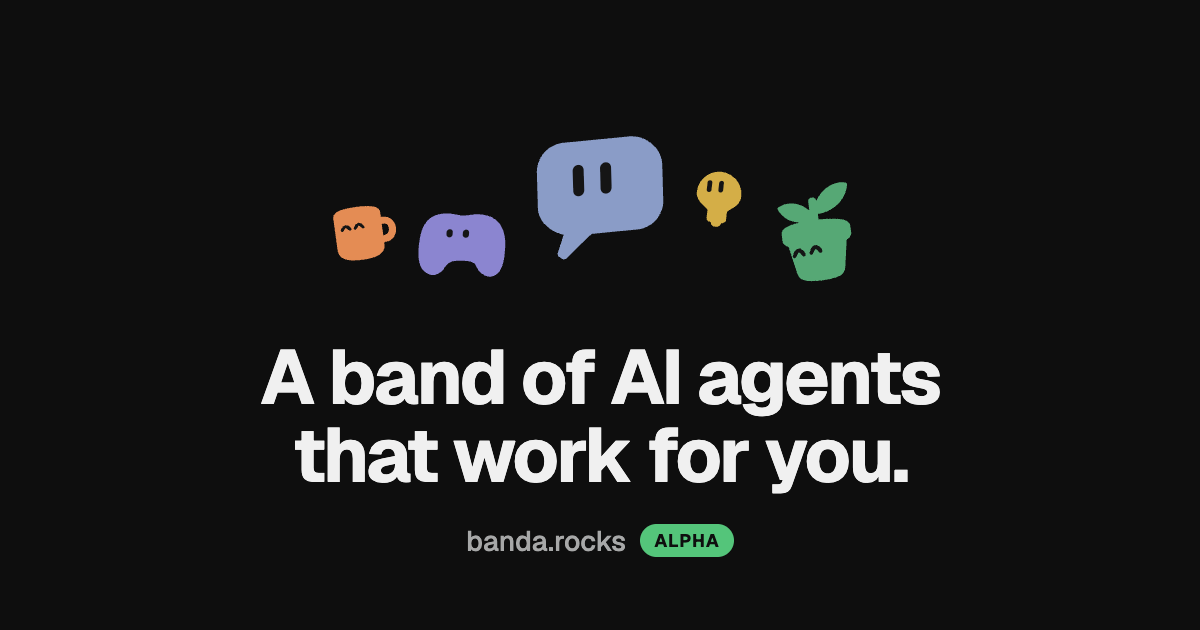
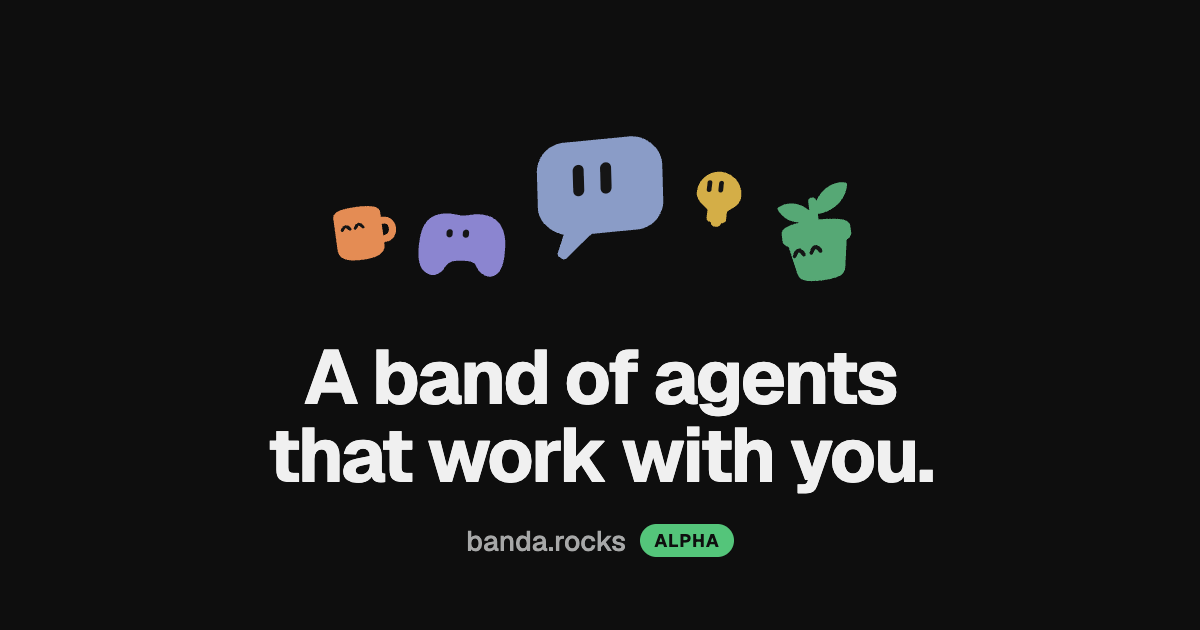
docs: the tagline is "A band of agents that work with you"
"Work for you" framed the agents as servants; the band works alongside
its owner. The new line replaces it in the README, the site's title,
headline and search and social metadata, the share picture (re-rendered
with npm run site:og), package.json's description and DESIGN.md's opening
sentence. "AI" is dropped from the line.

"Act on your behalf" in SECURITY.md and the agent's first words stay:
they describe what an agent does, not the tagline.

Lint and typecheck passed. The owner chose to skip npm test: this
changes only copy and the share picture, and the run was held up by
other suites on the machine.

Changed region(s): [[0.2158, 0.5429, 0.8017, 0.7841]]

diff --git a/site/index.html b/site/index.html
@@ -3,8 +3,8 @@
 <head>
 <meta charset="utf-8">
 <meta name="viewport" content="width=device-width, initial-scale=1">
-<title>banda: a band of AI agents that work for you</title>
-<meta name="description" content="A band of AI agents that work for you. Each has a computer of its own, and nothing goes out without your OK. Open source, for macOS, Linux and Windows.">
+<title>banda: a band of agents that work with you</title>
+<meta name="description" content="A band of agents that work with you. Each has a computer of its own, and nothing goes out without your OK. Open source, for macOS, Linux and Windows.">
 <link rel="canonical" href="https://banda.rocks/">
 <meta name="theme-color" content="#fdfdfd" media="(prefers-color-scheme: light)">
 <meta name="theme-color" content="#111111" media="(prefers-color-scheme: dark)">
@@ -13,17 +13,17 @@
 <meta property="og:type" content="website">
 <meta property="og:site_name" content="banda">
 <meta property="og:url" content="https://banda.rocks/">
-<meta property="og:title" content="banda: a band of AI agents that work for you">
-<meta property="og:description" content="A band of AI agents that work for you. Each has a computer of its own, and nothing goes out without your OK. Open source, for macOS, Linux and Windows.">
+<meta property="og:title" content="banda: a band of agents that work with you">
+<meta property="og:description" content="A band of agents that work with you. Each has a computer of its own, and nothing goes out without your OK. Open source, for macOS, Linux and Windows.">
 <meta property="og:image" content="https://banda.rocks/og.png">
 <meta property="og:image:width" content="1200">
 <meta property="og:image:height" content="630">
-<meta property="og:image:alt" content="Mara, Octo, Sancho, Atlas and Otto above the words: A band of AI agents that work for you.">
+<meta property="og:image:alt" content="Mara, Octo, Sancho, Atlas and Otto above the words: A band of agents that work with you.">
 <meta name="twitter:card" content="summary_large_image">
-<meta name="twitter:title" content="banda: a band of AI agents that work for you">
-<meta name="twitter:description" content="A band of AI agents that work for you. Each has a computer of its own, and nothing goes out without your OK. Open source, for macOS, Linux and Windows.">
+<meta name="twitter:title" content="banda: a band of agents that work with you">
+<meta name="twitter:description" content="A band of agents that work with you. Each has a computer of its own, and nothing goes out without your OK. Open source, for macOS, Linux and Windows.">
 <meta name="twitter:image" content="https://banda.rocks/og.png">
-<meta name="twitter:image:alt" content="Mara, Octo, Sancho, Atlas and Otto above the words: A band of AI agents that work for you.">
+<meta name="twitter:image:alt" content="Mara, Octo, Sancho, Atlas and Otto above the words: A band of agents that work with you.">
 <link rel="preconnect" href="https://fonts.googleapis.com">
 <link rel="preconnect" href="https://fonts.gstatic.com" crossorigin>
 <link href="https://fonts.googleapis.com/css2?family=Geist:wght@400;500;600;700&family=Geist+Mono&display=swap" rel="stylesheet">
@@ -190,7 +190,7 @@ footer nav { gap: 16px; }
 	<div class="wrap hero">
 		<div class="band" aria-hidden="true"></div>
 		<div class="badge"><span class="alpha">Alpha</span>macOS, Linux and Windows, with Android</div>
-		<h1>A band of AI agents that work for you.</h1>
+		<h1>A band of agents that work with you.</h1>
 		<p class="lede">Each with a computer of its own. Nothing goes out without your OK.</p>
 		<div class="cta">
 			<a class="button" id="download" href="#downloads">

diff --git a/site/og.html b/site/og.html
@@ -22,7 +22,7 @@ span {
 </head>
 <body>
 	<img src="../docs/band.svg" alt="">
-	<h1>A band of AI agents<br>that work for you.</h1>
+	<h1>A band of agents<br>that work with you.</h1>
 	<p>banda.rocks <span>Alpha</span></p>
 </body>
 </html>

diff --git a/DESIGN.md b/DESIGN.md
@@ -1,6 +1,6 @@
 # banda: design
 
-banda is a band of agents the owner runs on their own machine, the bots that get things done for them. Each agent is an
+banda is a band of agents that work with the owner, running on the owner's own machine. Each agent is an
 face and a name, with one conversation that never ends, a personality in the owner's words, the connections it may use
 and the routines and watches it keeps; the owner talks to each directly, or to several at once in a group. They
 research, write, keep track of things and work with the owner's services in a computer of their own, keep working while

diff --git a/README.md b/README.md
@@ -2,7 +2,7 @@
 
 <h1 align="center">banda</h1>
 
-<p align="center">A band of AI agents that work for you.<br><a href="https://banda.rocks">banda.rocks</a></p>
+<p align="center">A band of agents that work with you.<br><a href="https://banda.rocks">banda.rocks</a></p>
 
 Sancho is your first agent, and you can add more. Each one has a computer of its own to browse, write and run
 routines in. Connect GitHub or any MCP server and choose which agents may use it. Reading is free; anything that
